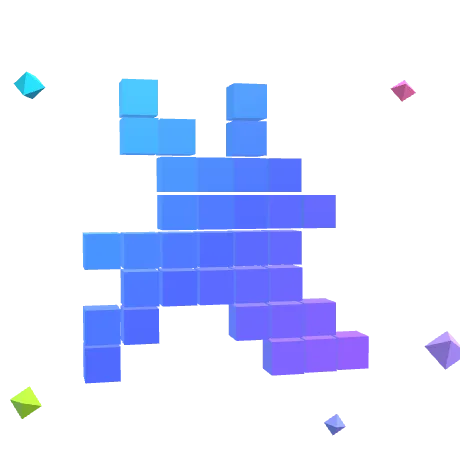
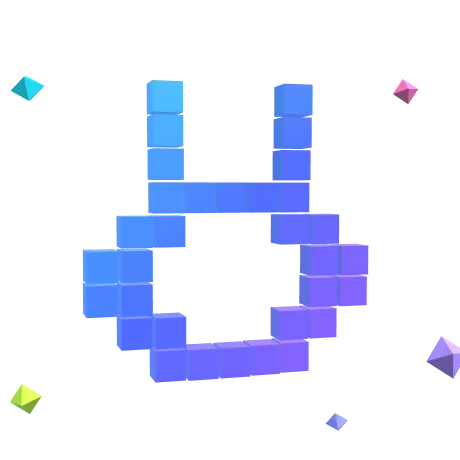
Shared home engine: LinkHop's rabbit head, counters never below zero
hop-hero3d.js: the linkhop preset gets its own map (two tall ears over a ring-shaped face, from apps/linkhop/mark.svg) instead of reusing the hub's logo; the LinkHop fallback WebPs are rendered again from it. hop-motion.js: a frame time that precedes the start no longer counts a number below zero. Manifest rebuilt.

diff --git a/public/hop-assets/v1/hop-hero3d.js b/public/hop-assets/v1/hop-hero3d.js
@@ -42,7 +42,8 @@
     // the PixelHop mark: the pixel rabbit
     pixelhop: ['.#....#.', '.#....#.', '.##..##.', '.######.', '##.##.##', '########', '########', '.######.']
   };
-  MAPS.linkhop = MAPS.hub;
+  // the LinkHop mark: a rabbit head, two tall ears over a ring-shaped face
+  MAPS.linkhop = ['..#...#..', '..#...#..', '..#...#..', '..#####..', '.##...##.', '##.....##', '##.....##', '.##...##.', '..#####..'];
   var STOPS = {
     notehop: [[.639, .902, .208], [.133, .827, .933], [.545, .361, .965]],
     hub: [[.13, .83, .93], [.55, .36, .97], [.96, .28, .65]],

diff --git a/public/hop-assets/v1/hop-motion.js b/public/hop-assets/v1/hop-motion.js
@@ -75,7 +75,7 @@
       if (reduce) { el.textContent = fmt(n); return; }
       var t0 = performance.now();
       (function step(now) {
-        var k = Math.min(1, (now - t0) / 1100);
+        var k = Math.min(1, Math.max(0, (now - t0) / 1100)); // a frame time can precede t0: never count below zero
         el.textContent = fmt(Math.round(n * (1 - Math.pow(1 - k, 3))));
         if (k < 1) requestAnimationFrame(step);
       })(t0);
